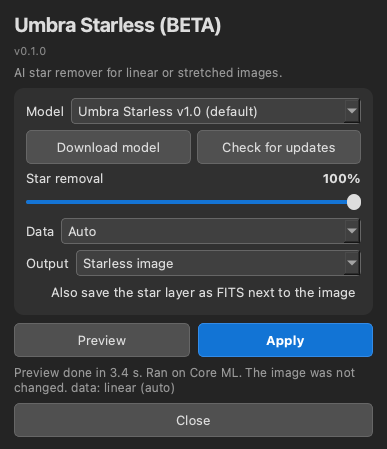
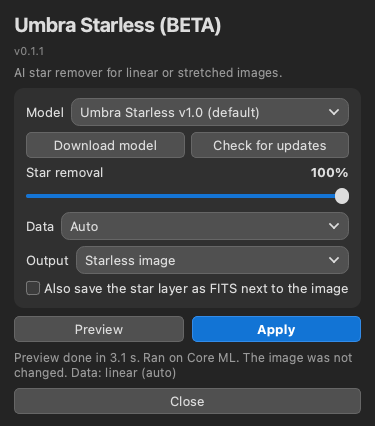
v0.1.1: buttons, check boxes, drop-downs and scroll bars styled like Umbra Astro Studio

diff --git a/Umbra_Starless.py b/Umbra_Starless.py
@@ -7,8 +7,9 @@ Run in Siril (Scripts menu), or standalone:
   python Umbra_Starless.py --image in.fits --out out.fits [--model PATH.onnx] [--removal 0..1] [--data auto|linear|stretched] [--output starless|stars] [--stars-out stars.fits]
   python Umbra_Starless.py --ui-test        (opens the window on a fake image, runs Preview once, exits)
   python Umbra_Starless.py --check-updates | --download [MODEL_ID|all]"""
-VERSION = '0.1.0'
-# First family release (ONNX Runtime, no PyTorch): one-button Preview / Apply flow (the correction marks and Auto-keep of the old script are not in this release).
+VERSION = '0.1.1'
+# 0.1.1: buttons, check boxes, drop-down menus and scroll bars now look the same as in Umbra Astro Studio.
+# 0.1.0: First family release (ONNX Runtime, no PyTorch): one-button Preview / Apply flow (the correction marks and Auto-keep of the old script are not in this release).
 # ============================================================================================ shared code (src/common.py)
 # Everything the five scripts share: dependency install, ONNX Runtime sessions, updater, preferences, Siril I/O, family UI, CLI.
 import sys, os, json, hashlib, argparse, time, math, re, types
@@ -710,20 +711,34 @@ def to_rgb8(img, params, flip=False):
 STYLE = """
 QWidget { background: #242424; color: #dddddd; font-size: 10pt; }
 QWidget#Card { background: #303030; border-radius: 10px; }
-QLabel, QCheckBox, QSlider { background: transparent; }
+QLabel, QCheckBox, QRadioButton, QSlider { background: transparent; }
 QLabel#Title { font-size: 15pt; font-weight: bold; color: #dddddd; }
 QLabel#Badge { color: #888888; font-size: 8pt; }
 QLabel#Note { color: #999999; font-size: 9pt; }
 QLabel#Value { color: #dddddd; font-weight: bold; min-width: 40px; }
 QLabel#Caption { color: #aaaaaa; font-size: 9pt; }
-QComboBox { background: #404040; border: 1px solid #666666; border-radius: 4px; padding: 3px 6px; }
-QComboBox QAbstractItemView { background: #303030; selection-background-color: #1274d5; }
-QPushButton { min-height: 20px; background: #505050; border: 1px solid #666666; border-radius: 5px; padding: 6px 12px; }
+QToolTip { color: #dddddd; background: #404040; border: 1px solid #666666; padding: 6px; }
+QCheckBox { spacing: 4px; background: transparent; }
+QCheckBox::indicator { width: 12px; height: 12px; border: 1px solid #777777; border-radius: 3px; background: #3c3c3c; }
+QCheckBox::indicator:checked { background: #1679db; border-color: #6eb5ff; }
+QCheckBox::indicator:disabled { border-color: #555555; background: #2e2e2e; }
+QComboBox { background: transparent; border: none; padding: 5px 25px 5px 9px; min-height: 18px; }
+QComboBox QAbstractItemView { background: #3d3d3d; color: #dddddd; border: 1px solid #666666; border-radius: 9px; padding: 5px; selection-background-color: #1679db; outline: 0; }
+QComboBox QAbstractItemView::item { padding: 5px 8px; border-radius: 5px; }
+QPushButton { background: #505050; border: 1px solid #666666; border-radius: 5px; padding: 4px 7px; }
 QPushButton:hover { background: #616161; }
-QPushButton:checked { background: #1274d5; border-color: #338be7; color: #ffffff; }
+QPushButton:checked { background: #1474d5; border-color: #358eef; }
 QPushButton:disabled { color: #777777; border-color: #444444; }
-QPushButton#Apply { min-height: 20px; background: #1274d5; color: #ffffff; font-weight: bold; border-color: #338be7; }
+QPushButton#Apply { background: #1274d5; color: #ffffff; font-weight: bold; border-color: #338be7; }
 QPushButton#Apply:disabled { background: #354656; color: #808890; border-color: #43505c; }
+QScrollArea { border: none; background: #242424; }
+QScrollBar:vertical { background: #242424; width: 8px; margin: 0; }
+QScrollBar::handle:vertical { background: #555555; border-radius: 4px; min-height: 24px; }
+QScrollBar::add-line:vertical, QScrollBar::sub-line:vertical { height: 0; }
+QScrollBar:horizontal { background: #242424; height: 8px; margin: 0; }
+QScrollBar::handle:horizontal { background: #555555; border-radius: 4px; min-width: 24px; }
+QScrollBar::add-line:horizontal, QScrollBar::sub-line:horizontal { width: 0; }
+QScrollBar::add-page:horizontal, QScrollBar::sub-page:horizontal, QScrollBar::add-page:vertical, QScrollBar::sub-page:vertical { background: transparent; }
 QSlider::groove:horizontal { height: 4px; background: #505050; border-radius: 2px; }
 QSlider::sub-page:horizontal { background: #1474d5; border-radius: 2px; }
 QSlider::handle:horizontal { background: #dddddd; width: 14px; margin: -6px 0; border-radius: 7px; }
@@ -745,6 +760,45 @@ def _qt():
     from PyQt6.QtGui import QImage, QPixmap
     from PyQt6.QtWidgets import (QApplication, QWidget, QLabel, QVBoxLayout, QHBoxLayout, QPushButton, QSlider, QProgressBar,
                                  QComboBox, QCheckBox, QSizePolicy, QStackedWidget, QMenu, QLayout)
+
+    from PyQt6.QtCore import QPointF, QRectF
+    from PyQt6.QtGui import QPainter, QPen, QColor
+    from PyQt6.QtWidgets import QListView, QFrame
+
+    class ModernComboBox(QComboBox):
+        """Rounded drop-down, drawn the same on every platform (same look as Umbra Astro Studio)."""
+        def __init__(self, parent=None):
+            super().__init__(parent)
+            self.setMinimumHeight(28)
+            self.setCursor(Qt.CursorShape.PointingHandCursor)
+            view = QListView(self); view.setFrameShape(QFrame.Shape.NoFrame); view.setSpacing(1); self.setView(view)
+
+        def paintEvent(self, event):
+            p = QPainter(self); p.setRenderHint(QPainter.RenderHint.Antialiasing)
+            p.setPen(QPen(QColor('#4398ed') if self.hasFocus() else QColor('#666666'), 1))
+            p.setBrush(QColor('#606060') if (self.underMouse() and self.isEnabled()) else QColor('#505050'))
+            p.drawRoundedRect(QRectF(.5, .5, self.width() - 1, self.height() - 1), 8, 8)
+            p.setPen(QColor('#dddddd') if self.isEnabled() else QColor('#888888')); p.setFont(self.font())
+            text = self.fontMetrics().elidedText(self.currentText(), Qt.TextElideMode.ElideRight, max(1, self.width() - 35))
+            p.drawText(self.rect().adjusted(9, 0, -27, 0), Qt.AlignmentFlag.AlignVCenter | Qt.AlignmentFlag.AlignLeft, text)
+            cx, cy = self.width() - 15, self.height() / 2
+            p.setPen(QPen(QColor('#dddddd') if self.isEnabled() else QColor('#888888'), 1.7))
+            p.drawLine(QPointF(cx - 4, cy - 2), QPointF(cx, cy + 2)); p.drawLine(QPointF(cx, cy + 2), QPointF(cx + 4, cy - 2)); p.end()
+
+        def enterEvent(self, event):
+            super().enterEvent(event); self.update()
+
+        def leaveEvent(self, event):
+            super().leaveEvent(event); self.update()
+
+        def showPopup(self):
+            super().showPopup()
+            container = self.view().window()
+            container.setAttribute(Qt.WidgetAttribute.WA_TranslucentBackground, True)
+            container.setObjectName('RoundedComboPopup')
+            container.setStyleSheet('QFrame#RoundedComboPopup {background:#3d3d3d;border:1px solid #666666;border-radius:10px;padding:4px;} '
+                                    'QListView {background:#3d3d3d;color:#dddddd;border:none;border-radius:7px;padding:3px;outline:0;} '
+                                    'QListView::item {padding:5px 8px;border-radius:5px;} QListView::item:selected {background:#1679db;}')
 
     class Worker(QThread):
         done = pyqtSignal(object, object, float, str, object)
@@ -911,7 +965,7 @@ def _qt():
             row = QHBoxLayout()
             label = QLabel(text)
             row.addWidget(label)
-            cb = QComboBox()
+            cb = ModernComboBox()
             for t, v in items:
                 cb.addItem(t, v)
             if tip:
@@ -973,16 +1027,16 @@ def _qt():
             cl.setContentsMargins(12, 10, 12, 12)
             mrow = QHBoxLayout()
             mrow.addWidget(QLabel('Model'))
-            self.model_box = QComboBox()
+            self.model_box = ModernComboBox()
             mrow.addWidget(self.model_box, 1)
             cl.addLayout(mrow)
             brow = QHBoxLayout()
             self.dl_btn = QPushButton('Download model')
-            self.dl_btn.setMinimumHeight(30)
+            self.dl_btn.setMinimumHeight(26)
             self.dl_btn.setToolTip("Download a model from this project's GitHub releases (checked against a SHA-256 before it is installed).")
             self.dl_btn.clicked.connect(self.show_dl_menu)
             self.upd_btn = QPushButton('Check for updates')
-            self.upd_btn.setMinimumHeight(30)
+            self.upd_btn.setMinimumHeight(26)
             self.upd_btn.setToolTip('Looks for newer models and a newer script. Nothing is downloaded or replaced until you ask.')
             self.upd_btn.clicked.connect(lambda: self.fetch_info(manual=True))
             brow.addWidget(self.dl_btn); brow.addWidget(self.upd_btn)
@@ -1349,7 +1403,7 @@ def _qt():
                 tl.addWidget(QLabel(f'v{VERSION}', objectName='Badge'))
                 row = QHBoxLayout()
                 row.addWidget(QLabel('Tool'))
-                self.tool_box = QComboBox()
+                self.tool_box = ModernComboBox()
                 for s in specs:
                     self.tool_box.addItem(s.name, s.key)
                 row.addWidget(self.tool_box, 1)
@@ -2008,7 +2062,7 @@ def _engine_starless():
             detected = bool(is_stretched(x))
             stretched = detected if mode == 'auto' else (mode == 'stretched')
             mode_used = 'stretched' if stretched else 'linear'
-            notes.append(f'data: {mode_used}' + (' (auto)' if mode == 'auto' else ' (manual)'))
+            notes.append(f'Data: {mode_used}' + (' (auto)' if mode == 'auto' else ' (manual)'))
             H, W = x.shape[-2:]
             total = _n_tiles(H, W) + (_n_tiles(H // HALO_FACTOR, W // HALO_FACTOR) if min(H, W) // HALO_FACTOR >= 64 else 0)
             done = [0]

diff --git a/README.md b/README.md
@@ -2,7 +2,7 @@
 
 Umbra Starless is an AI star remover for [Siril](https://siril.org). It works on linear or stretched images. It is a Siril Python script with an AI model. It runs locally on your computer and is free. It removes stars and their halos and fills the holes, and it can give you the star layer on its own.
 
-**Status: Beta (v0.1.0).** Expect rough edges.
+**Status: Beta (v0.1.1).** Expect rough edges.
 
 ![Umbra Starless panel](docs/screenshots/Umbra_Starless_panel.png)
 
@@ -88,7 +88,7 @@ Small images: the model uses fixed 512 px tiles, so images under 512 px are padd
 
 ## Layout
 
-- `Umbra_Starless.py`: the script (v0.1.0, ONNX Runtime, with model download and update check)
+- `Umbra_Starless.py`: the script (v0.1.1, ONNX Runtime, with model download and update check)
 - `models/models.json`: model manifest (name, version, download URL, SHA-256, size)
 - `docs/screenshots/`: panel screenshots
 - `LICENSE`, `LICENSE-MODELS.md`: licenses
